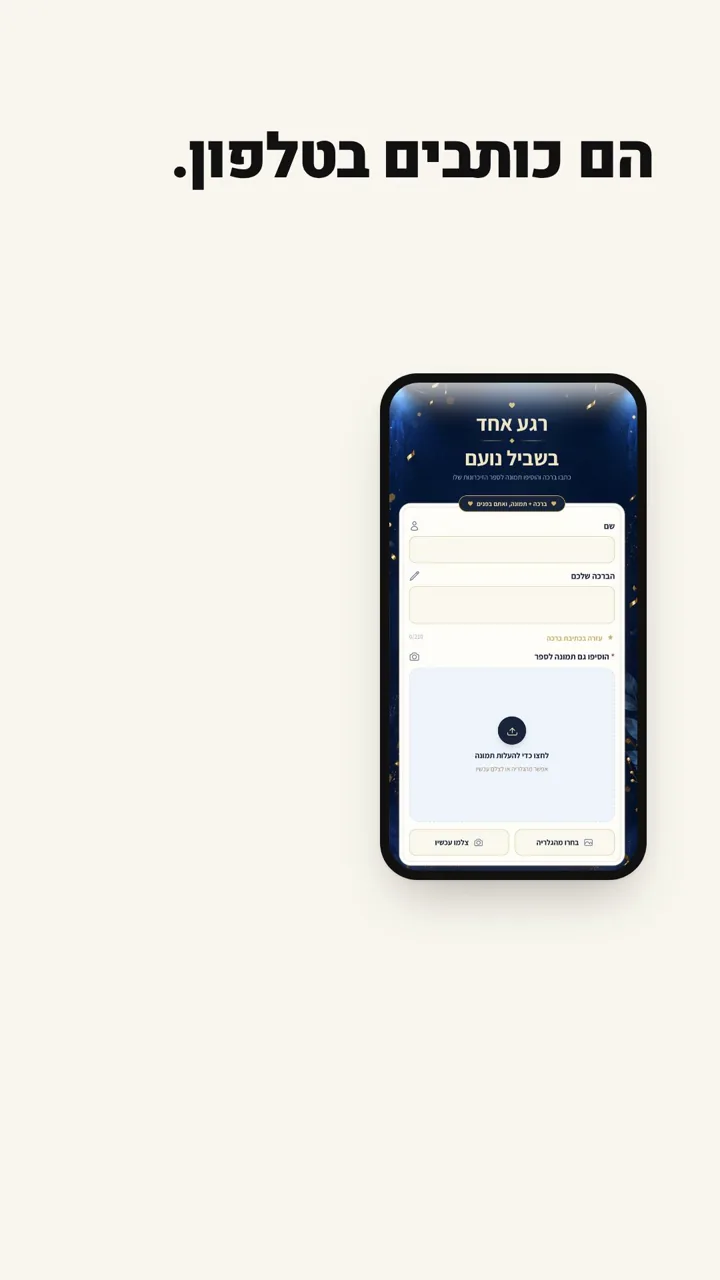
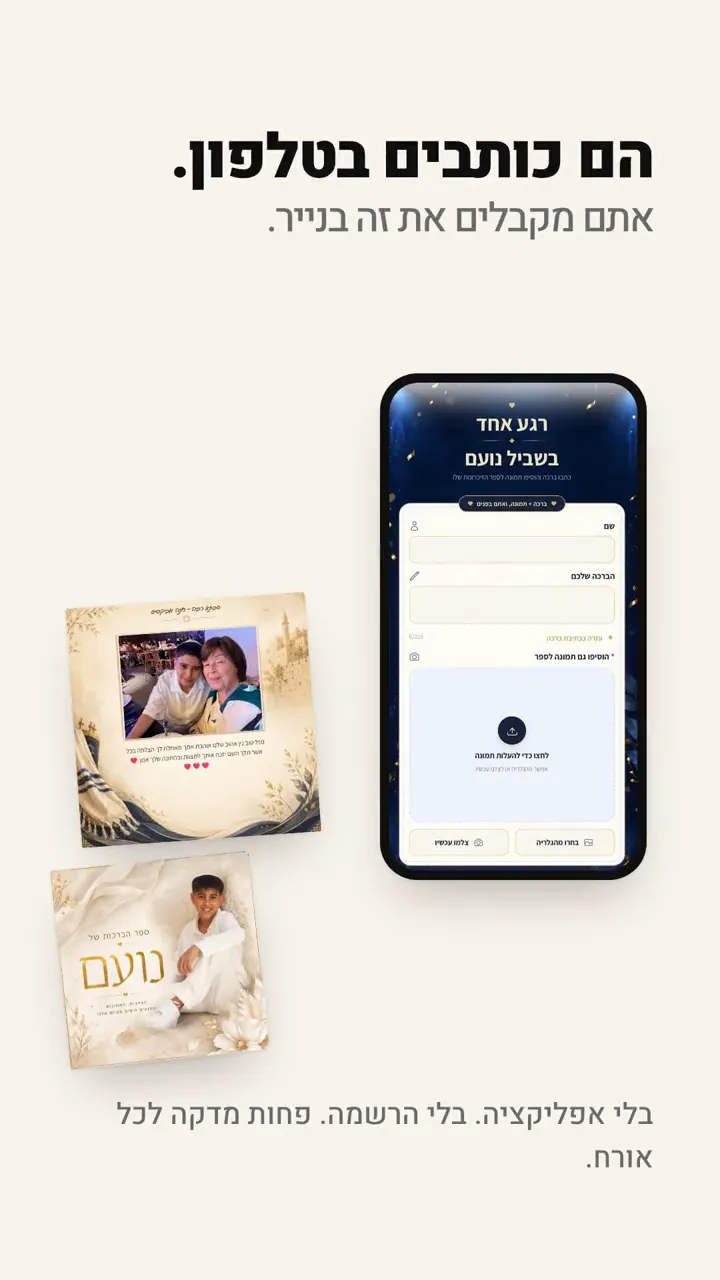
site: second pass on the homepage preview (#28)
Clearer hero, a timeline under the steps, fuller plan details from the
sales catalog, a promise that nothing is printed before approval, a film
poster that shows phone and paper, keyboard access to the covers shelf.

Claude-Session: https://claude.ai/code/session_01PUiVhaURuwUZ8cqBsdqpKh

diff --git a/public/site/index.html b/public/site/index.html
@@ -19,7 +19,7 @@
 <meta name="twitter:card" content="summary_large_image">
 <meta name="theme-color" content="#FAFAF8">
 <link rel="preload" href="/site/assets/fonts/heebo-hebrew.woff2" as="font" type="font/woff2" crossorigin>
-<link rel="stylesheet" href="/site/site.css?v=58c1b400">
+<link rel="stylesheet" href="/site/site.css?v=5e22f0ec">
 <link rel="icon" href="/favicon.ico">
 <script>(function(c,l,a,r,i,t,y){c[a]=c[a]||function(){(c[a].q=c[a].q||[]).push(arguments)};t=l.createElement(r);t.async=1;t.src="https://www.clarity.ms/tag/"+i;y=l.getElementsByTagName(r)[0];y.parentNode.insertBefore(t,y);})(window,document,"clarity","script","xhmexj42pw");</script>
 </head>
@@ -48,6 +48,7 @@
   <a class="sheet__l" href="#faq">שאלות</a>
   <div class="sheet__sub">
     <a href="https://weddingtales.co.il/ספר-ברכות-בר-מצווה/">ספר ברכות לבר מצווה</a><a href="https://weddingtales.co.il/ספר-ברכות-לבת-מצווה/">ספר ברכות לבת מצווה</a><a href="https://weddingtales.co.il/ספר-אורחים-לחתונה/">ספר ברכות לחתונה</a><a href="https://weddingtales.co.il/ספר-ברכות-ליום-הולדת/">ספר ברכות ליום הולדת</a>
+    <a href="https://wa.me/972515350253" target="_blank" rel="noopener" data-track="whatsapp-menu">שאלה? כתבו לנו בוואטסאפ</a>
     <a href="https://app.weddingtales.co.il/login">כניסה ללקוחות</a>
   </div>
   <a class="btn" href="#pricing" data-track="menu-cta">להזמנת ספר</a>
@@ -58,10 +59,13 @@
 <section class="hero">
   <div class="wrap hero__grid">
     <div class="hero__copy">
-      <h1 class="display">כל האורחים.<br>ספר אחד.</h1>
+      <h1 class="display"><span class="display__k">ספר ברכות מהאירוע</span>כל האורחים.<br>ספר אחד.</h1>
       <p class="lead">ספר ברכות לבר ובת מצווה, לחתונה וליום הולדת. האורחים כותבים ברכה ומוסיפים תמונה מהטלפון, ואתם מקבלים ספר בכריכה קשה.</p>
       <div class="hero__cta">
-        <a class="btn" href="#pricing" data-hero-cta data-track="hero-cta">להזמנת ספר</a>
+        <div class="hero__row">
+          <a class="btn" href="#pricing" data-hero-cta data-track="hero-cta">להזמנת ספר</a>
+          <a class="link" href="https://app.weddingtales.co.il/b/a319b00d-7ed2-48cf-b88b-d41a98f35e05" target="_blank" rel="noopener" data-track="hero-fullbook">לדפדף בספר שלם</a>
+        </div>
         <p class="hero__price nums"><b>990 ₪</b> מודפס ודיגיטלי, כולל משלוח · <b>690 ₪</b> דיגיטלי</p>
       </div>
       <a class="hero__tv" href="#tv"><i></i><span>כפי שנראה ב״ארבע חתונות״, <u>כאן 11</u></span></a>
@@ -108,6 +112,16 @@
         <p>רואים כל ברכה שנכנסת, מסדרים ועורכים, ומאשרים כל עמוד. רק אז הספר יוצא לדפוס ומגיע אליכם הביתה.</p>
       </li>
     </ol>
+
+    <div class="when">
+      <h3 class="when__t">כמה זמן זה לוקח</h3>
+      <ol class="when__row">
+        <li class="when__i"><b>היום</b><span>מזמינים ובוחרים עיצוב. אנחנו יוצרים קשר בוואטסאפ.</span></li>
+        <li class="when__i"><b class="nums">48 שעות</b><span>מאישור העיצוב, עמוד האורחים ופוסטר ה־QR מוכנים.</span></li>
+        <li class="when__i"><b>באירוע ואחריו</b><span>האורחים כותבים. הקישור נשאר פתוח גם למי שלא הגיע.</span></li>
+        <li class="when__i"><b class="nums">14 ימי עסקים</b><span>מהרגע שאישרתם את העמודים, הספר המודפס אצלכם בבית.</span></li>
+      </ol>
+    </div>
   </div>
 </section>
 
@@ -123,7 +137,7 @@
         <button class="chip" type="button" data-filter="birthday" aria-pressed="false">יום הולדת</button>
       </div>
     </div>
-    <div class="shelf"><figure class="vol is-lead" data-kind="bar"><div class="vol__cover"><img src="/site/assets/img/cover-ariel-720.webp" srcset="/site/assets/img/cover-ariel-360.webp 360w, /site/assets/img/cover-ariel-720.webp 720w" sizes="(min-width:900px) 40vw, 68vw" alt="כריכת ספר הברכות של אריאל, בר מצווה: אריאל קורא בתורה ליד הכותל" width="720" height="720" loading="lazy" decoding="async"></div><figcaption><b>אריאל</b><span>בר מצווה</span></figcaption></figure><figure class="vol" data-kind="wedding"><div class="vol__cover"><img src="/site/assets/img/cover-meital-bar-714.webp" srcset="/site/assets/img/cover-meital-bar-360.webp 360w, /site/assets/img/cover-meital-bar-714.webp 714w" sizes="(min-width:900px) 40vw, 68vw" alt="כריכת ספר הברכות של מיטל ובר, חתונה" width="720" height="720" loading="lazy" decoding="async"></div><figcaption><b>מיטל ובר</b><span>חתונה</span></figcaption></figure><figure class="vol" data-kind="birthday"><div class="vol__cover"><img src="/site/assets/img/cover-jerry-720.webp" srcset="/site/assets/img/cover-jerry-360.webp 360w, /site/assets/img/cover-jerry-720.webp 720w" sizes="(min-width:900px) 40vw, 68vw" alt="כריכת הספר של ג׳רי, יום הולדת 90" width="720" height="720" loading="lazy" decoding="async"></div><figcaption><b>ג׳רי</b><span>יום הולדת 90</span></figcaption></figure><figure class="vol" data-kind="bar"><div class="vol__cover"><img src="/site/assets/img/cover-elia-711.webp" srcset="/site/assets/img/cover-elia-360.webp 360w, /site/assets/img/cover-elia-711.webp 711w" sizes="(min-width:900px) 40vw, 68vw" alt="כריכת ספר הברכות של אליה, בר מצווה: הנחת תפילין בכותל" width="720" height="720" loading="lazy" decoding="async"></div><figcaption><b>אליה</b><span>בר מצווה</span></figcaption></figure><figure class="vol" data-kind="birthday"><div class="vol__cover"><img src="/site/assets/img/cover-liel-720.webp" srcset="/site/assets/img/cover-liel-360.webp 360w, /site/assets/img/cover-liel-720.webp 720w" sizes="(min-width:900px) 40vw, 68vw" alt="כריכת ספר הברכות של ליאל, יום הולדת 16" width="720" height="720" loading="lazy" decoding="async"></div><figcaption><b>ליאל</b><span>יום הולדת 16</span></figcaption></figure><figure class="vol" data-kind="bar"><div class="vol__cover"><img src="/site/assets/img/cover-noam-720.webp" srcset="/site/assets/img/cover-noam-360.webp 360w, /site/assets/img/cover-noam-720.webp 720w" sizes="(min-width:900px) 40vw, 68vw" alt="כריכת ספר הברכות של נועם, בר מצווה" width="720" height="720" loading="lazy" decoding="async"></div><figcaption><b>נועם</b><span>בר מצווה</span></figcaption></figure><figure class="vol" data-kind="wedding"><div class="vol__cover"><img src="/site/assets/img/cover-shaked-dor-720.webp" srcset="/site/assets/img/cover-shaked-dor-360.webp 360w, /site/assets/img/cover-shaked-dor-720.webp 720w" sizes="(min-width:900px) 40vw, 68vw" alt="כריכת ספר הברכות של שקד ודור, חתונה" width="720" height="720" loading="lazy" decoding="async"></div><figcaption><b>שקד ודור</b><span>חתונה</span></figcaption></figure></div>
+    <div class="shelf" tabindex="0" role="region" aria-label="כריכות של ספרים שהכנו"><figure class="vol is-lead" data-kind="bar"><div class="vol__cover"><img src="/site/assets/img/cover-ariel-720.webp" srcset="/site/assets/img/cover-ariel-360.webp 360w, /site/assets/img/cover-ariel-720.webp 720w" sizes="(min-width:900px) 40vw, 68vw" alt="כריכת ספר הברכות של אריאל, בר מצווה: אריאל קורא בתורה ליד הכותל" width="720" height="720" loading="lazy" decoding="async"></div><figcaption><b>אריאל</b><span>בר מצווה</span></figcaption></figure><figure class="vol" data-kind="wedding"><div class="vol__cover"><img src="/site/assets/img/cover-meital-bar-714.webp" srcset="/site/assets/img/cover-meital-bar-360.webp 360w, /site/assets/img/cover-meital-bar-714.webp 714w" sizes="(min-width:900px) 40vw, 68vw" alt="כריכת ספר הברכות של מיטל ובר, חתונה" width="720" height="720" loading="lazy" decoding="async"></div><figcaption><b>מיטל ובר</b><span>חתונה</span></figcaption></figure><figure class="vol" data-kind="birthday"><div class="vol__cover"><img src="/site/assets/img/cover-jerry-720.webp" srcset="/site/assets/img/cover-jerry-360.webp 360w, /site/assets/img/cover-jerry-720.webp 720w" sizes="(min-width:900px) 40vw, 68vw" alt="כריכת הספר של ג׳רי, יום הולדת 90" width="720" height="720" loading="lazy" decoding="async"></div><figcaption><b>ג׳רי</b><span>יום הולדת 90</span></figcaption></figure><figure class="vol" data-kind="bar"><div class="vol__cover"><img src="/site/assets/img/cover-elia-711.webp" srcset="/site/assets/img/cover-elia-360.webp 360w, /site/assets/img/cover-elia-711.webp 711w" sizes="(min-width:900px) 40vw, 68vw" alt="כריכת ספר הברכות של אליה, בר מצווה: הנחת תפילין בכותל" width="720" height="720" loading="lazy" decoding="async"></div><figcaption><b>אליה</b><span>בר מצווה</span></figcaption></figure><figure class="vol" data-kind="birthday"><div class="vol__cover"><img src="/site/assets/img/cover-liel-720.webp" srcset="/site/assets/img/cover-liel-360.webp 360w, /site/assets/img/cover-liel-720.webp 720w" sizes="(min-width:900px) 40vw, 68vw" alt="כריכת ספר הברכות של ליאל, יום הולדת 16" width="720" height="720" loading="lazy" decoding="async"></div><figcaption><b>ליאל</b><span>יום הולדת 16</span></figcaption></figure><figure class="vol" data-kind="bar"><div class="vol__cover"><img src="/site/assets/img/cover-noam-720.webp" srcset="/site/assets/img/cover-noam-360.webp 360w, /site/assets/img/cover-noam-720.webp 720w" sizes="(min-width:900px) 40vw, 68vw" alt="כריכת ספר הברכות של נועם, בר מצווה" width="720" height="720" loading="lazy" decoding="async"></div><figcaption><b>נועם</b><span>בר מצווה</span></figcaption></figure><figure class="vol" data-kind="wedding"><div class="vol__cover"><img src="/site/assets/img/cover-shaked-dor-720.webp" srcset="/site/assets/img/cover-shaked-dor-360.webp 360w, /site/assets/img/cover-shaked-dor-720.webp 720w" sizes="(min-width:900px) 40vw, 68vw" alt="כריכת ספר הברכות של שקד ודור, חתונה" width="720" height="720" loading="lazy" decoding="async"></div><figcaption><b>שקד ודור</b><span>חתונה</span></figcaption></figure></div>
 
     <div class="spread-wrap" id="inside" style="padding-top:72px">
       <div class="inside">
@@ -155,7 +169,7 @@
     </div>
     <div class="film">
       <div class="film__frame" data-film="/site/assets/video/film-40s.mp4" data-poster="/site/assets/img/film-poster-720.webp">
-        <img src="/site/assets/img/film-poster-720.webp" srcset="/site/assets/img/film-poster-720.webp 720w" sizes="300px" alt="מתוך הסרטון: כריכות של ספרי ברכות" width="720" height="1280" loading="lazy" decoding="async">
+        <img src="/site/assets/img/film-poster-720.webp" srcset="/site/assets/img/film-poster-720.webp 720w" sizes="300px" alt="מתוך הסרטון: טלפון עם ברכה, ולידו העמודים המודפסים" width="720" height="1280" loading="lazy" decoding="async">
         <button class="film__play" type="button" aria-label="לניגון הסרטון, 40 שניות" data-track="film-play"><span><svg viewBox="0 0 24 24" aria-hidden="true"><path d="M7 4.5v15l13-7.5z"/></svg></span><em>לצפייה בסרטון, 40 שניות</em></button>
       </div>
       <h3 class="h3">כל התהליך ב־40 שניות</h3>
@@ -179,9 +193,9 @@
         </div>
         <p class="plan__price nums"><b>990 ₪</b><span>תשלום חד־פעמי, כולל משלוח</span></p>
         <ul class="plan__list">
-          <li><svg viewBox="0 0 24 24" aria-hidden="true"><path d="M4 12.5l5 5L20 6.5"/></svg><span>ספר בכריכה קשה, 21×21 ס״מ, על נייר איכותי</span></li>
+          <li><svg viewBox="0 0 24 24" aria-hidden="true"><path d="M4 12.5l5 5L20 6.5"/></svg><span>ספר בכריכה קשה, 21×21 ס״מ, נייר פרימיום בגימור משי</span></li>
           <li><svg viewBox="0 0 24 24" aria-hidden="true"><path d="M4 12.5l5 5L20 6.5"/></svg><span>כריכה אישית עם השם והתמונה שלכם</span></li>
-          <li><svg viewBox="0 0 24 24" aria-hidden="true"><path d="M4 12.5l5 5L20 6.5"/></svg><span>אתם מאשרים כל עמוד לפני הדפוס</span></li>
+          <li><svg viewBox="0 0 24 24" aria-hidden="true"><path d="M4 12.5l5 5L20 6.5"/></svg><span>כל עמוד מעוצב, ואתם מאשרים אותו לפני הדפוס</span></li>
           <li><svg viewBox="0 0 24 24" aria-hidden="true"><path d="M4 12.5l5 5L20 6.5"/></svg><span>משלוח עד הבית</span></li>
           <li><svg viewBox="0 0 24 24" aria-hidden="true"><path d="M4 12.5l5 5L20 6.5"/></svg><span>כל מה שבמסלול הדיגיטלי</span></li>
         </ul>
@@ -195,14 +209,17 @@
         <p class="plan__price nums"><b>690 ₪</b><span>תשלום חד־פעמי</span></p>
         <ul class="plan__list">
           <li><svg viewBox="0 0 24 24" aria-hidden="true"><path d="M4 12.5l5 5L20 6.5"/></svg><span>קישור אישי ופוסטר QR בעיצוב אישי</span></li>
-          <li><svg viewBox="0 0 24 24" aria-hidden="true"><path d="M4 12.5l5 5L20 6.5"/></svg><span>ברכות ותמונות מכל טלפון, בלי אפליקציה</span></li>
+          <li><svg viewBox="0 0 24 24" aria-hidden="true"><path d="M4 12.5l5 5L20 6.5"/></svg><span>ברכות ותמונות בלי הגבלה, בלי אפליקציה</span></li>
           <li><svg viewBox="0 0 24 24" aria-hidden="true"><path d="M4 12.5l5 5L20 6.5"/></svg><span>ספר דיגיטלי מעוצב, לצפייה ולשיתוף</span></li>
+          <li><svg viewBox="0 0 24 24" aria-hidden="true"><path d="M4 12.5l5 5L20 6.5"/></svg><span>קובץ PDF להורדה</span></li>
           <li><svg viewBox="0 0 24 24" aria-hidden="true"><path d="M4 12.5l5 5L20 6.5"/></svg><span>ניהול, עריכה וסידור של הברכות</span></li>
+          <li><svg viewBox="0 0 24 24" aria-hidden="true"><path d="M4 12.5l5 5L20 6.5"/></svg><span>הקישור פעיל שנה שלמה</span></li>
         </ul>
         <a class="btn btn--ghost" href="https://weddingtales.co.il/checkout/?add-to-cart=6258" data-track="buy-digital">להזמנה · 690 ₪</a>
       </article>
     </div>
     <div class="plans__foot">
+      <p class="plans__promise">לא מדפיסים שום דבר לפני שאישרתם. רואים כל עמוד, ומבקשים תיקונים בלי הגבלה.</p>
       <p>המחירים כוללים מע״מ. התשלום מאובטח, בכרטיס אשראי.</p>
       <p>אחרי התשלום מגיע מייל עם פרטי גישה, ואנחנו יוצרים קשר בוואטסאפ כדי להתחיל בעיצוב.</p>
       <p>יש תאריך קרוב או שאלה לפני שמזמינים? <a class="link" href="https://wa.me/972515350253" target="_blank" rel="noopener" data-track="whatsapp">כתבו לנו בוואטסאפ</a></p>
@@ -217,7 +234,7 @@
       <p class="lead">לא מצאתם תשובה? <a class="link" href="https://wa.me/972515350253" target="_blank" rel="noopener" data-track="whatsapp-faq">שאלו אותנו בוואטסאפ</a></p>
     </div>
     <div>
-      <div class="faq"><details open><summary>מי שכותב ברכה צריך להוריד אפליקציה או להירשם?</summary><p>לא. הקישור נפתח בדפדפן של הטלפון, בלי אפליקציה ובלי חשבון. כותבים שם וברכה, ומוסיפים תמונה.</p></details><details><summary>מה ההבדל בין 690 ₪ ל־990 ₪?</summary><p>690 ₪ כוללים קישור אישי, פוסטר QR בעיצוב אישי, איסוף הברכות והתמונות, וספר דיגיטלי מעוצב. ב־990 ₪ מקבלים בנוסף ספר מודפס בכריכה קשה, 21×21 ס״מ, עם משלוח עד הבית.</p></details><details><summary>אפשר לראות את הספר לפני ההדפסה?</summary><p>כן. אתם עוברים על כל עמוד, מסדרים ועורכים, ומאשרים. הספר לא יוצא לדפוס בלי האישור שלכם.</p></details><details><summary>כמה ברכות צריך כדי שיהיה ספר?</summary><p>אין מכסה. מספר העמודים נקבע לפי מה שנאסף בפועל. עשרים ברכות אמיתיות, כל אחת עם שם ותמונה, עושות ספר מלא.</p></details><details><summary>אפשר להכין ספר בהפתעה?</summary><p>כן. שולחים את הקישור למשפחה ולחברים מראש ואוספים את הברכות בשקט, בלי שמי שחוגג יודע. ככה הוכן הספר של ג׳רי ליום הולדת 90.</p></details><details><summary>האירוע קרוב. תוך כמה זמן זה מוכן?</summary><p>עמוד האורחים ופוסטר ה־QR מוכנים תוך 48 שעות מהרגע שאישרתם את העיצוב. התאריך ממש קרוב? כתבו לנו בוואטסאפ לפני ההזמנה.</p></details><details><summary>מתי מגיע הספר המודפס?</summary><p>הספר יוצא לדפוס אחרי שסגרתם את הברכות ואישרתם את העמודים, ומגיע עד הבית תוך 14 ימי עסקים. צריכים מהר יותר? יש מסלול אקספרס בתוספת תשלום.</p></details><details><summary>אפשר לכתוב גם באנגלית?</summary><p>כן. כל אחד כותב בשפה שלו. בספר של ג׳רי יש ברכות בעברית ובאנגלית.</p></details><details><summary>בחרנו בדיגיטלי ועכשיו רוצים גם מודפס?</summary><p>אפשר לשדרג בהמשך למסלול המודפס.</p></details><details><summary>מה קורה אם האירוע נדחה?</summary><p>שום דבר לא הולך לאיבוד. הקישור נשאר פעיל, לפני האירוע, במהלכו ואחריו.</p></details></div>
+      <div class="faq"><details open><summary>מי שכותב ברכה צריך להוריד אפליקציה או להירשם?</summary><p>לא. הקישור נפתח בדפדפן של הטלפון, בלי אפליקציה ובלי חשבון. כותבים שם וברכה, ומוסיפים תמונה.</p></details><details><summary>מה ההבדל בין 690 ₪ ל־990 ₪?</summary><p>690 ₪ כוללים קישור אישי, פוסטר QR בעיצוב אישי, איסוף הברכות והתמונות, וספר דיגיטלי מעוצב. ב־990 ₪ מקבלים בנוסף ספר מודפס בכריכה קשה, 21×21 ס״מ, עם משלוח עד הבית.</p></details><details><summary>אפשר לראות את הספר לפני ההדפסה?</summary><p>כן. אתם עוברים על כל עמוד, מסדרים ועורכים, ומאשרים. הספר לא יוצא לדפוס בלי האישור שלכם.</p></details><details><summary>כמה ברכות אפשר לאסוף, וכמה צריך?</summary><p>אין מינימום ואין מקסימום. גם באירוע של 500 אורחים כולם יכולים לכתוב ולהעלות תמונה, ומספר העמודים נקבע לפי מה שנאסף. גם עשרים ברכות, כל אחת עם שם ותמונה, עושות ספר מלא.</p></details><details><summary>אפשר להכין ספר בהפתעה?</summary><p>כן. שולחים את הקישור למשפחה ולחברים מראש ואוספים את הברכות בשקט, בלי שמי שחוגג יודע. ככה הוכן הספר של ג׳רי ליום הולדת 90.</p></details><details><summary>האירוע קרוב. תוך כמה זמן זה מוכן?</summary><p>עמוד האורחים ופוסטר ה־QR מוכנים תוך 48 שעות מהרגע שאישרתם את העיצוב. התאריך ממש קרוב? כתבו לנו בוואטסאפ לפני ההזמנה.</p></details><details><summary>מתי מגיע הספר המודפס?</summary><p>הספר יוצא לדפוס אחרי שסגרתם את הברכות ואישרתם את העמודים, ומגיע עד הבית תוך 14 ימי עסקים. צריכים מהר יותר? יש מסלול אקספרס בתוספת תשלום.</p></details><details><summary>אפשר לכתוב גם באנגלית?</summary><p>כן. כל אחד כותב בשפה שלו. בספר של ג׳רי יש ברכות בעברית ובאנגלית.</p></details><details><summary>בחרנו בדיגיטלי ועכשיו רוצים גם מודפס?</summary><p>אפשר לשדרג בהמשך למסלול המודפס.</p></details><details><summary>מי שלא הגיע לאירוע יכול לכתוב?</summary><p>כן. הקישור נשאר פתוח גם אחרי האירוע, ומי שפספס משלים מהבית. אפשר גם להתחיל אחרי שהאירוע כבר עבר, ואם האירוע נדחה שום דבר לא הולך לאיבוד.</p></details></div>
       <h3 class="h3" style="margin:56px 0 16px">לאיזה אירוע?</h3>
       <nav class="events" aria-label="ספר ברכות לפי אירוע"><a href="https://weddingtales.co.il/ספר-ברכות-בר-מצווה/">בר מצווה<span>עלייה לתורה, מסיבה, משפחה</span></a><a href="https://weddingtales.co.il/ספר-ברכות-לבת-מצווה/">בת מצווה<span>החברות, המשפחה, המילים</span></a><a href="https://weddingtales.co.il/ספר-אורחים-לחתונה/">חתונה<span>במקום ספר אורחים על שולחן</span></a><a href="https://weddingtales.co.il/ספר-ברכות-ליום-הולדת/">יום הולדת<span>50, 60, 70, 90 ומעלה</span></a></nav>
     </div>

diff --git a/public/site/site.css b/public/site/site.css
@@ -303,3 +303,28 @@ body.wt{margin:0;background:var(--paper);color:var(--text);font-family:"Heebo",s
   html{scroll-behavior:auto}
   .wt *,.wt *::before,.wt *::after{transition-duration:.01ms!important;animation-duration:.01ms!important}
 }
+
+/* ── additions, 11.11 ── */
+.display__k{display:block;font-size:clamp(15px,1.45vw,18px);font-weight:800;letter-spacing:0;line-height:1.3;color:var(--text-2);margin-bottom:.85em;white-space:normal}
+.hero__row{display:flex;flex-wrap:wrap;align-items:center;gap:12px 24px}
+.hero__row .link{font-size:16.5px}
+
+.when{margin-top:56px;padding-top:36px;border-top:1px solid var(--line)}
+.when__t{font-size:15px;font-weight:800;color:var(--text-2);margin-bottom:26px}
+.when__row{display:grid}
+.when__i{position:relative;padding-inline-start:26px;padding-bottom:28px;border-inline-start:2px solid var(--line)}
+.when__i:last-child{padding-bottom:0;border-inline-start-color:transparent}
+.when__i::before{content:"";position:absolute;inset-inline-start:-8px;top:5px;width:14px;height:14px;border-radius:50%;background:var(--paper);box-shadow:inset 0 0 0 2.5px var(--text)}
+.when__i:last-child::before{background:var(--text)}
+.when__i b{display:block;font-weight:900;font-size:clamp(23px,2.6vw,30px);line-height:1.1;letter-spacing:-.02em}
+.when__i span{display:block;margin-top:8px;color:var(--text-2);font-size:16px;line-height:1.5;max-width:23em}
+@media (min-width:860px){
+  .when{margin-top:88px;padding-top:0;border-top:0}
+  .when__i:last-child{border-top-color:var(--line)}
+  .when__row{grid-template-columns:repeat(4,minmax(0,1fr))}
+  .when__i,.when__i:last-child{border-inline-start:0;border-top:2px solid var(--line);padding:26px 0 0;padding-inline-end:28px}
+  .when__i::before{inset-inline-start:0;top:-8px}
+}
+
+.plans__promise{color:var(--text)!important;font-weight:700;font-size:17px}
+.shelf:focus-visible{outline:2px solid var(--focus);outline-offset:4px}

diff --git a/AGENTS.md b/AGENTS.md
@@ -732,6 +732,17 @@ and a demo form that sends nothing.
   the blessing on the open spread quoted underneath.
 - Buttons go straight to checkout: 6271 (990 ₪) and 6258 (690 ₪).
 - public/ pages skip the React layout, so Clarity is inlined by hand.
+- Second pass, 11.11 ("make it better"): says what it is above the
+  headline ("ספר ברכות מהאירוע", inside the h1), a second quiet action in
+  the hero that opens Jerry's whole book, a four-point timeline under the
+  steps (today / 48 hours / at the event and after / 14 business days),
+  the digital plan lists what the catalog really includes (unlimited, PDF,
+  a full year), a line under the plans that nothing is printed before
+  approval, an FAQ answer for guests who missed the event, a film poster
+  that shows phone and paper together, a WhatsApp row in the phone menu,
+  and the covers shelf is reachable by keyboard. Every claim is from
+  `src/lib/salesAgent/catalog.js`. The 300 ₪ upgrade price stays out of
+  the page on purpose: the catalog keeps it for price objections.
 
 ### 4.11 — setting the cover from a phone
 
